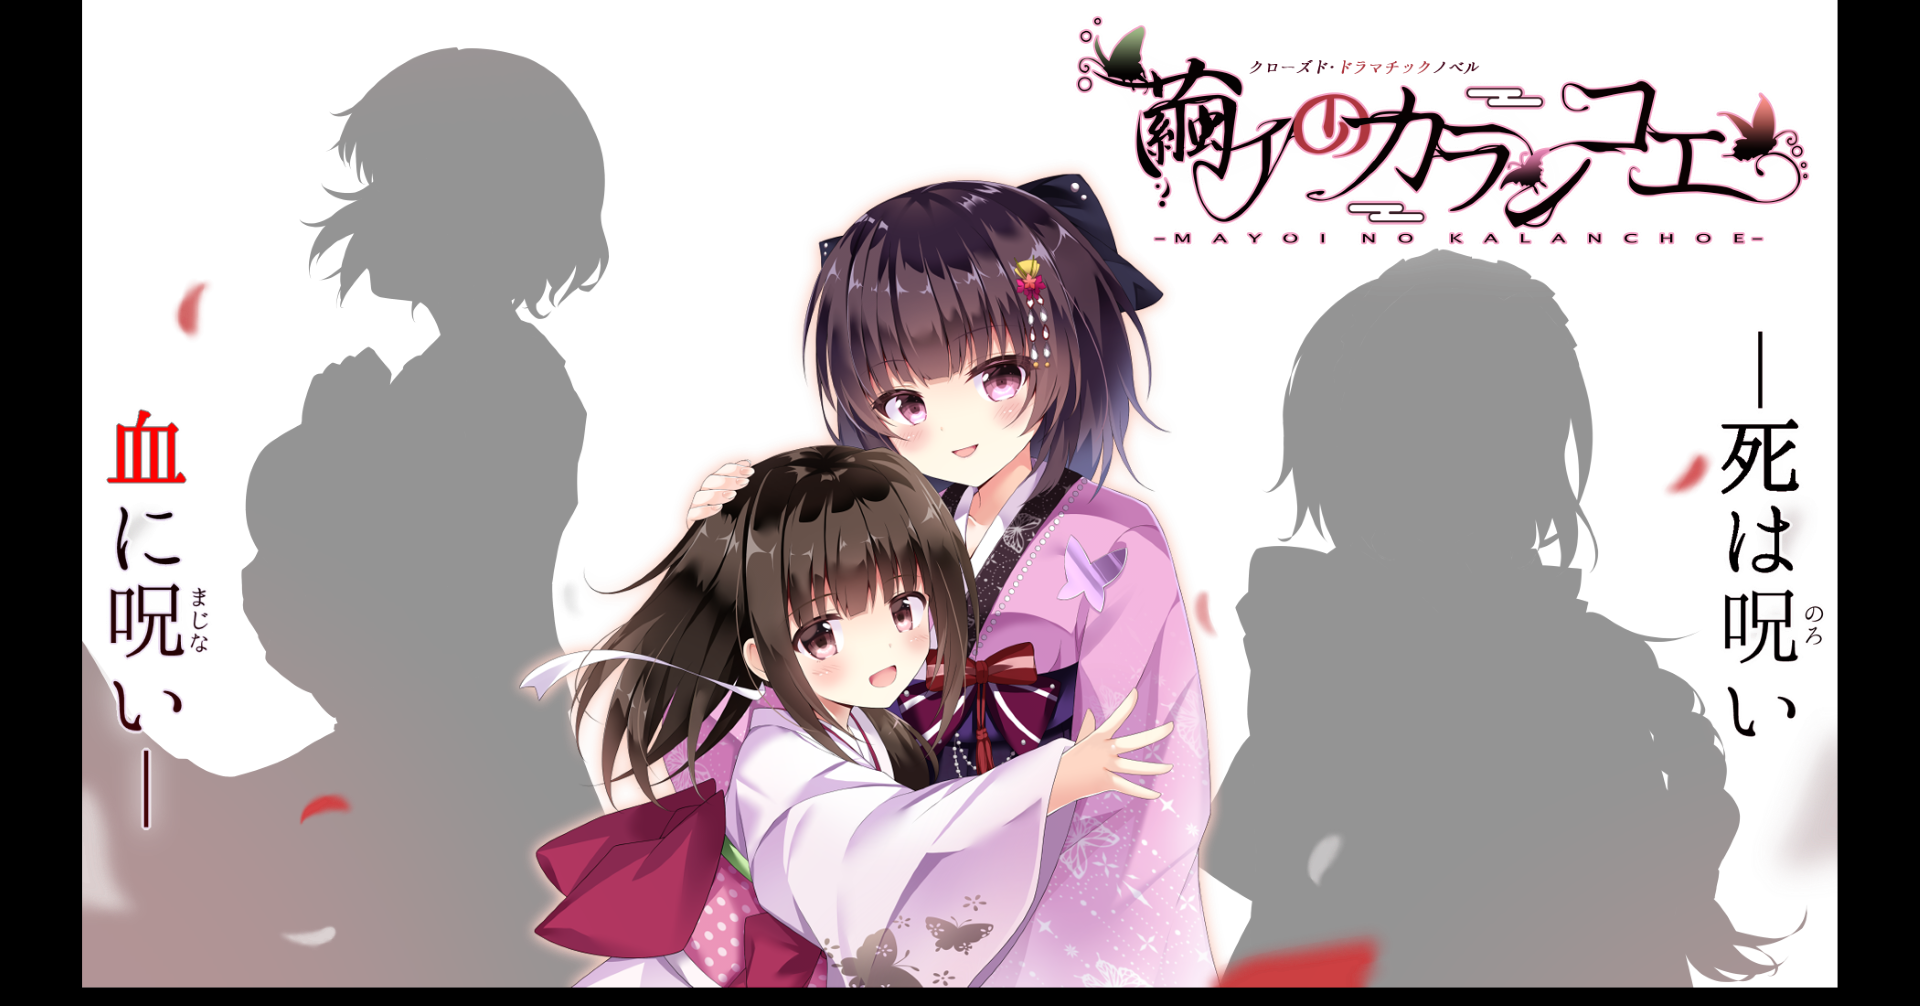
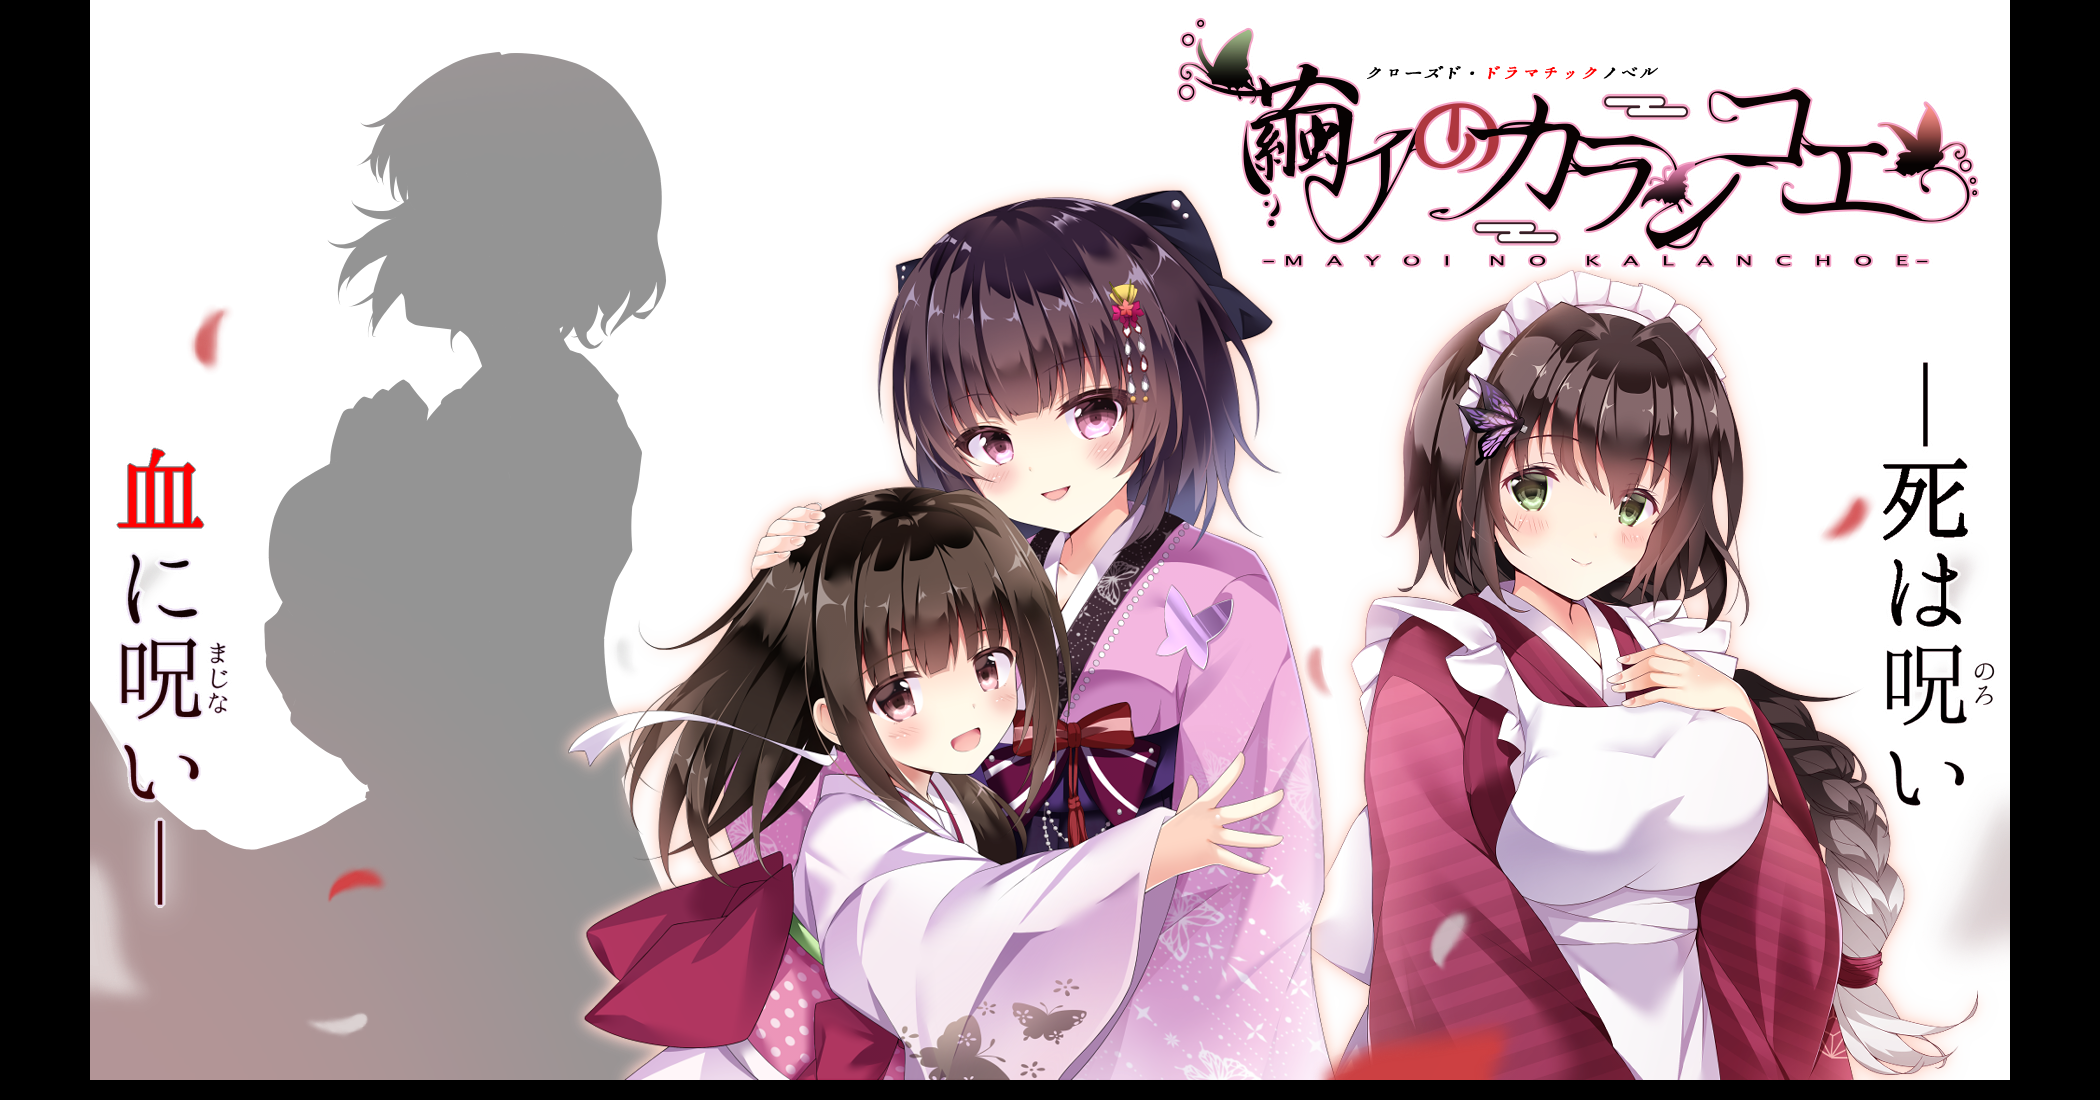
キーびじゅ更新

Changed region(s): [[0.625, 0.2465, 0.9375, 0.9861], [0.6562, 0.0616, 0.7812, 0.0924]]

diff --git a/pages/mayukara/index.js b/pages/mayukara/index.js
@@ -1,4 +1,4 @@
-import React, { useEffect, useState } from 'react';
+import React, {useEffect, useState} from 'react';
 import Footer from "../component/Footer"
 import karankoeTop from "../static/siteKEY.png"
 import Background from "../static/hp2_TOP.jpg"
@@ -9,7 +9,7 @@ import Navigation from "./components/Navigation"
 import SectionHeader from "./components/Header"
 import FloatButtons from "./components/FloatButtons"
 import MayuChara from "./character"
-import { Col, Row } from 'antd';
+import {Col, Row} from 'antd';
 import Script from 'next/script'
 import BackTopButton from "./components/BackTopButton"
 import Graphics from "./graphics"
@@ -18,7 +18,7 @@ import Graphics from "./graphics"
 
 export default function Carankoe() {
     function getWindowDimensions() {
-        const { innerWidth: width, innerHeight: height } = window;
+        const {innerWidth: width, innerHeight: height} = window;
         return {
             width,
             height,
@@ -29,14 +29,14 @@ export default function Carankoe() {
     const [hideButton, setHideButton] = useState(0);
 
     useEffect(() => {
-        const { width, height } = getWindowDimensions();
+        const {width, height} = getWindowDimensions();
 
         setWidth(width);
         setHeight(height);
     }, []);
     useEffect(() => {
         function handleResize() {
-            const { width, height } = getWindowDimensions();
+            const {width, height} = getWindowDimensions();
             setWidth(width)
             setHeight(height)
         }
@@ -47,47 +47,47 @@ export default function Carankoe() {
 
     return (
         <>
-            <div style={{ position: "fixed", top: "0px", zIndex: -4545 }}>
-                <div style={{ height: "100%", width: "100%" }}>
+            <div style={{position: "fixed", top: "0px", zIndex: -4545}}>
+                <div style={{height: "100%", width: "100%"}}>
                     <Image
                         alt="Shikoshikoback"
                         src={Background}
                         width="100%"
                         objectFit="contain"
                         layout={"intrinsic"}
-                        style={{ zIndex: -4545 }}
+                        style={{zIndex: -4545}}
                     />
                 </div>
             </div>
             {!hideButton && (
-                <div style={{ position: "fixed", top: "10px", width: "100%", zIndex: 14545 }}>
+                <div style={{position: "fixed", top: "10px", width: "100%", zIndex: 14545}}>
                     <Navigation />
                 </div>
             )}
-            <div style={{ position: "absolute", top: "0px", width: "100%", zIndex: 545 }}>
+            <div style={{position: "absolute", top: "0px", width: "100%", zIndex: 545}}>
                 <div style={{}} id="top">
                     <Image
                         alt="Shikoshiko"
                         src={karankoeTop}
-                        style={{ width: "100%" }}
+                        style={{width: "100%"}}
                         objectFit="contain"
                         layout={"intrinsic"} />
                 </div>
-                <div style={{ background: "rgba(242, 222, 182, .9)" }}>
-                    <div style={{ height: "20px" }}>
+                <div style={{background: "rgba(242, 222, 182, .9)"}}>
+                    <div style={{height: "20px"}}>
 
                     </div>
-                    <div id="story" style={{ maxWidth: "1280px", marginLeft: "auto", marginRight: "auto" }}>
+                    <div id="story" style={{maxWidth: "1280px", marginLeft: "auto", marginRight: "auto"}}>
                         <SectionHeader text="御噺" />
                         <CarankoeStory />
                     </div>
-                    <div id="character" style={{ maxWidth: "1280px", marginLeft: "auto", marginRight: "auto", marginTop: "3rem" }}>
+                    <div id="character" style={{maxWidth: "1280px", marginLeft: "auto", marginRight: "auto", marginTop: "3rem"}}>
                         <SectionHeader text="人物" />
                         <MayuChara width={width} />
                     </div>
-                    <div id="illust" style={{ maxWidth: "1280px", marginLeft: "auto", marginRight: "auto", marginTop: "4rem" }}>
+                    <div id="illust" style={{maxWidth: "1280px", marginLeft: "auto", marginRight: "auto", marginTop: "4rem"}}>
                         <SectionHeader text="画廊" />
-                        <div style={{ padding: "2rem", marginTop: "2rem" }}>
+                        <div style={{padding: "2rem", marginTop: "2rem"}}>
                             <Graphics setHideButton={setHideButton} />
                         </div>
                     </div>
@@ -96,23 +96,23 @@ export default function Carankoe() {
                             <DlFloatButtons />
                         </div>
                     )} */}
-                    <div id="novel" style={{ maxWidth: "1280px", marginLeft: "auto", marginRight: "auto" }}>
+                    <div id="novel" style={{maxWidth: "1280px", marginLeft: "auto", marginRight: "auto"}}>
                         <SectionHeader text="小噺" />
-                        <div style={{ padding: "2rem", marginTop: "2rem" }}>
+                        <div style={{padding: "2rem", marginTop: "2rem"}}>
                             <Image
                                 alt="Shikoshiko"
                                 src={junbi}
-                                style={{ width: "100%" }}
+                                style={{width: "100%"}}
                                 objectFit="contain"
                                 layout={"intrinsic"} />
                         </div>
 
                     </div>
-                    <div id="update" style={{ maxWidth: "1280px", marginLeft: "auto", marginRight: "auto", fontFamily: "cursive" }}>
+                    <div id="update" style={{maxWidth: "1280px", marginLeft: "auto", marginRight: "auto", fontFamily: "cursive"}}>
                         <SectionHeader text="電報" />
-                        <Row gutter={16} style={{ margin: "2rem" }} justify="space-between">
-                            <Col xs={24} sm={11} md={11} lg={11} xl={10} style={{ background: "rgba(232, 212, 172, .6)" }} >
-                                <div style={{ borderBottom: "solid rgb(99,99,99)", fontSize: "28px" }}>
+                        <Row gutter={16} style={{margin: "2rem"}} justify="space-between">
+                            <Col xs={24} sm={11} md={11} lg={11} xl={10} style={{background: "rgba(232, 212, 172, .6)"}} >
+                                <div style={{borderBottom: "solid rgb(99,99,99)", fontSize: "28px"}}>
                                     更新情報
                                 </div>
                                 <div
@@ -123,12 +123,15 @@ export default function Carankoe() {
                                         fontSize: "16px"
                                     }}>
                                     <p>
-                                        ・<span style={{ color: "#222" }}>2023.01.09</span> <span style={{ paddingLeft: "1rem" }}>サイトオープンしました</span>
+                                        ・<span style={{color: "#222"}}>2023.01.29</span> <span style={{paddingLeft: "1rem"}}>キービジュアルを更新しました</span>
+                                    </p>
+                                    <p>
+                                        ・<span style={{color: "#222"}}>2023.01.09</span> <span style={{paddingLeft: "1rem"}}>サイトオープンしました</span>
                                     </p>
                                 </div>
                             </Col>
-                            <Col xs={24} sm={12} md={12} lg={12} xl={10} style={{ background: "rgba(232, 212, 172, .6)" }}>
-                                <div style={{ borderBottom: "solid rgb(99,99,99)", fontSize: "28px" }}>
+                            <Col xs={24} sm={12} md={12} lg={12} xl={10} style={{background: "rgba(232, 212, 172, .6)"}}>
+                                <div style={{borderBottom: "solid rgb(99,99,99)", fontSize: "28px"}}>
                                     Twitter
                                 </div>
                                 <div
@@ -146,7 +149,7 @@ export default function Carankoe() {
                         </Row>
                     </div>
                     <BackTopButton />
-                    <div id="share" style={{ textAlign: "center" }}>
+                    <div id="share" style={{textAlign: "center"}}>
                         <FloatButtons />
                     </div>
                     <Footer />

diff --git a/pages/mayukara/components/Navigation.jsx b/pages/mayukara/components/Navigation.jsx
@@ -30,7 +30,7 @@ const Navigation = () => {
 
   return (
     <>
-      <div style={{ textAlign: "right" }}>
+      <div style={{ textAlign: "right", marginRight:"2rem" }}>
         {open ? (
           <Button type="text" onClick={showDrawer} style={{ zIndex: 1919545 }}>
             <Space style={{ color: "#fff", fontSize: "18px" }}>
